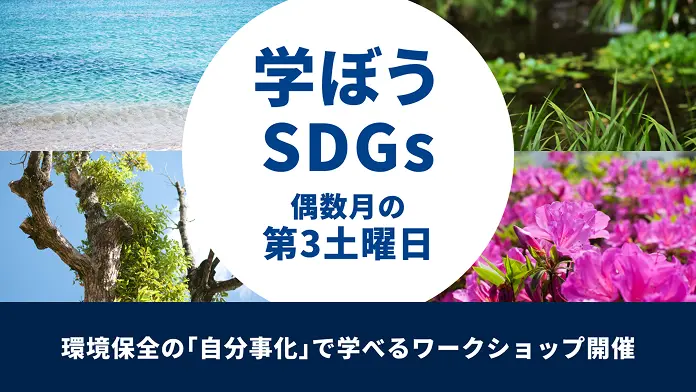
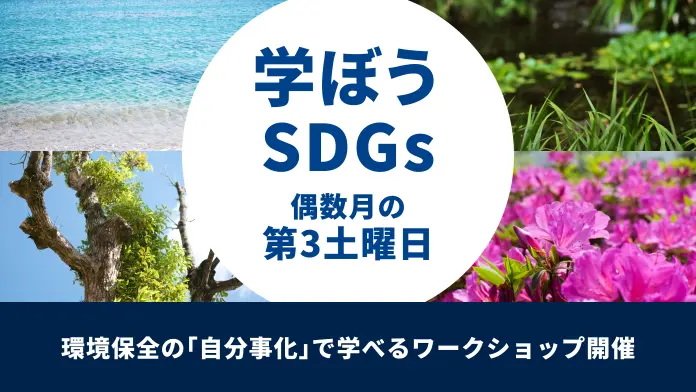
feat(carousel): 高解像度のスライド画像を使用する

diff --git a/src/components/carousel/normal.html b/src/components/carousel/normal.html
@@ -25,7 +25,7 @@
             <a class="dads-carousel__main-link" href="#link1" data-js-main-link>
               <span class="dads-u-visually-hidden" data-js-main-label>スライド1</span>
               <div class="dads-carousel__image-container" data-js-main-images>
-                <img src="image-1.webp" alt="学ぼうSDGs 偶数月の第3土曜日 環境保全の「自分事化」で学べるワークショップ開催" width="696" height="392">
+                <img src="image-1.webp" srcset="image-1@2x.webp 2x" alt="学ぼうSDGs 偶数月の第3土曜日 環境保全の「自分事化」で学べるワークショップ開催" width="696" height="392">
               </div>
             </a>
           </div>
@@ -34,7 +34,7 @@
         <p class="dads-carousel__next">
           <button type="button" data-js-next-button>
             <span class="dads-carousel__next-image-container" data-js-next-image-container>
-              <img src="image-2.webp" alt="" width="696" height="392">
+              <img src="image-2.webp" srcset="image-2@2x.webp 2x" alt="" width="696" height="392">
             </span>
             <span class="dads-carousel__next-image-label">次のスライド</span>
           </button>
@@ -102,7 +102,7 @@
                 <a class="dads-carousel__main-link" href="#link1">
                   <span class="dads-u-visually-hidden">スライド1</span>
                   <div class="dads-carousel__image-container">
-                    <img src="image-1.webp" alt="学ぼうSDGs 偶数月の第3土曜日 環境保全の「自分事化」で学べるワークショップ開催" width="696" height="392">
+                    <img src="image-1.webp" srcset="image-1@2x.webp 2x" alt="学ぼうSDGs 偶数月の第3土曜日 環境保全の「自分事化」で学べるワークショップ開催" width="696" height="392">
                   </div>
                 </a>
               </div>
@@ -114,7 +114,7 @@
                 <a class="dads-carousel__main-link" href="#link2" data-js-slide-link>
                   <span class="dads-u-visually-hidden">スライド2</span>
                   <div class="dads-carousel__image-container">
-                    <img src="image-2.webp" alt="地産地消キャンペーン 県の名産品や体験イベントを楽しもう 期間：4月から7月までの毎週末開催！" width="696" height="392" data-js-slide-image>
+                    <img src="image-2.webp" srcset="image-2@2x.webp 2x" alt="地産地消キャンペーン 県の名産品や体験イベントを楽しもう 期間：4月から7月までの毎週末開催！" width="696" height="392" data-js-slide-image>
                   </div>
                 </a>
               </div>
@@ -126,7 +126,7 @@
                 <a class="dads-carousel__main-link" href="#link3" data-js-slide-link>
                   <span class="dads-u-visually-hidden">スライド3</span>
                   <div class="dads-carousel__image-container">
-                    <img src="image-3.webp" alt="令和 国立公園・歴史名所スタンプラリー まわろうよ 今年の週末 全国を 子どもたちの歴史理解促進と、日本各地の名産品・観光資源に親しむことを目的に、本イベントを全国開催しています！" width="696" height="392" data-js-slide-image>
+                    <img src="image-3.webp" srcset="image-3@2x.webp 2x" alt="令和 国立公園・歴史名所スタンプラリー まわろうよ 今年の週末 全国を 子どもたちの歴史理解促進と、日本各地の名産品・観光資源に親しむことを目的に、本イベントを全国開催しています！" width="696" height="392" data-js-slide-image>
                   </div>
                 </a>
               </div>
@@ -138,7 +138,7 @@
                 <a class="dads-carousel__main-link" href="#link4" data-js-slide-link>
                   <span class="dads-u-visually-hidden">スライド4</span>
                   <div class="dads-carousel__image-container">
-                    <img src="image-4.webp" alt="合同健康診断のお知らせ ご自身とご家族の健康維持のため、定期的な健康診断の受診を。皆様の健やかな生活を応援します。 6月1日より受付開始 川海町および森林町にお住いの方が対象です" width="696" height="392" data-js-slide-image>
+                    <img src="image-4.webp" srcset="image-4@2x.webp 2x" alt="合同健康診断のお知らせ ご自身とご家族の健康維持のため、定期的な健康診断の受診を。皆様の健やかな生活を応援します。 6月1日より受付開始 川海町および森林町にお住いの方が対象です" width="696" height="392" data-js-slide-image>
                   </div>
                 </a>
               </div>

diff --git a/src/components/carousel/carousel.stories.ts b/src/components/carousel/carousel.stories.ts
@@ -11,12 +11,32 @@ import image2 from "./image-2.webp";
 import image3 from "./image-3.webp";
 import image4 from "./image-4.webp";
 
+import image1_2x from "./image-1@2x.webp";
+import image2_2x from "./image-2@2x.webp";
+import image3_2x from "./image-3@2x.webp";
+import image4_2x from "./image-4@2x.webp";
+
 const images: Record<string, string> = {
   "image-1.webp": image1,
   "image-2.webp": image2,
   "image-3.webp": image3,
   "image-4.webp": image4,
 };
+
+const images2x: Record<string, string> = {
+  "image-1.webp": image1_2x,
+  "image-2.webp": image2_2x,
+  "image-3.webp": image3_2x,
+  "image-4.webp": image4_2x,
+};
+
+function updateImageSrcAndSrcset(img: Element) {
+  const src = img.getAttribute("src")?.match(/\/?([^/]+)$/)?.[1];
+  if (src && images[src]) {
+    img.setAttribute("src", images[src]);
+    img.setAttribute("srcset", `${images2x[src]} 2x`);
+  }
+}
 
 const meta = {
   title: "Components/カルーセル",
@@ -29,10 +49,7 @@ export const Normal: StoryObj = {
     const fragment = new HtmlFragment(normal, "dads-carousel");
 
     fragment.root.querySelectorAll("img").forEach((img) => {
-      const src = img.getAttribute("src")?.match(/\/?([^/]+)$/)?.[1];
-      if (src) {
-        img.setAttribute("src", images[src]);
-      }
+      updateImageSrcAndSrcset(img);
     });
 
     return fragment.toString();
